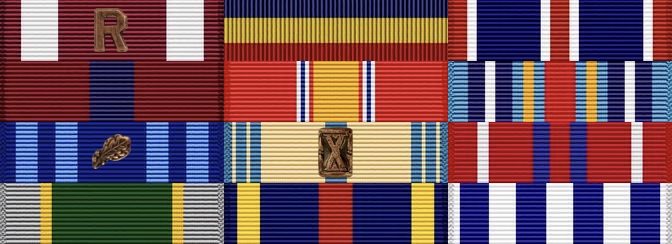
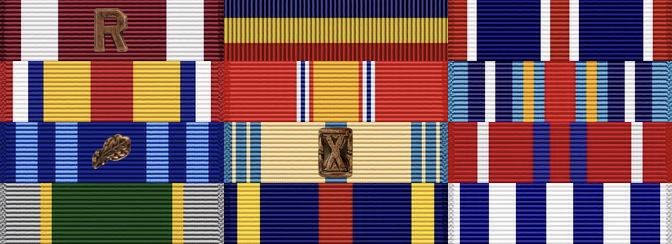
corrected ribbon rack and descriptions

Changed region(s): [[0.0, 0.2295, 0.3438, 0.5164]]

diff --git a/awards_decorations.html b/awards_decorations.html
@@ -26,7 +26,7 @@
             <li>Meritorious Service Ribbon With 4 Bronze Oak Leafs (pictured here with "R")</li>
             <li>United States Marine Corps Presidential Unit Citation</li>
             <li>Air Force Outstanding Unit Ribbon</li>
-            <li>United States Marine Corps Good Conduct Medal</li>
+            <li>Selected Marine Corps Reserve Medal</li>
             <li>National Defense Service Medal Ribbon</li>
             <li>Global War On Terrorism Expeditionary Ribbon</li>
             <li>Air Force Longevity Service Ribbon With 1 Bronze Oak Leaf</li>
